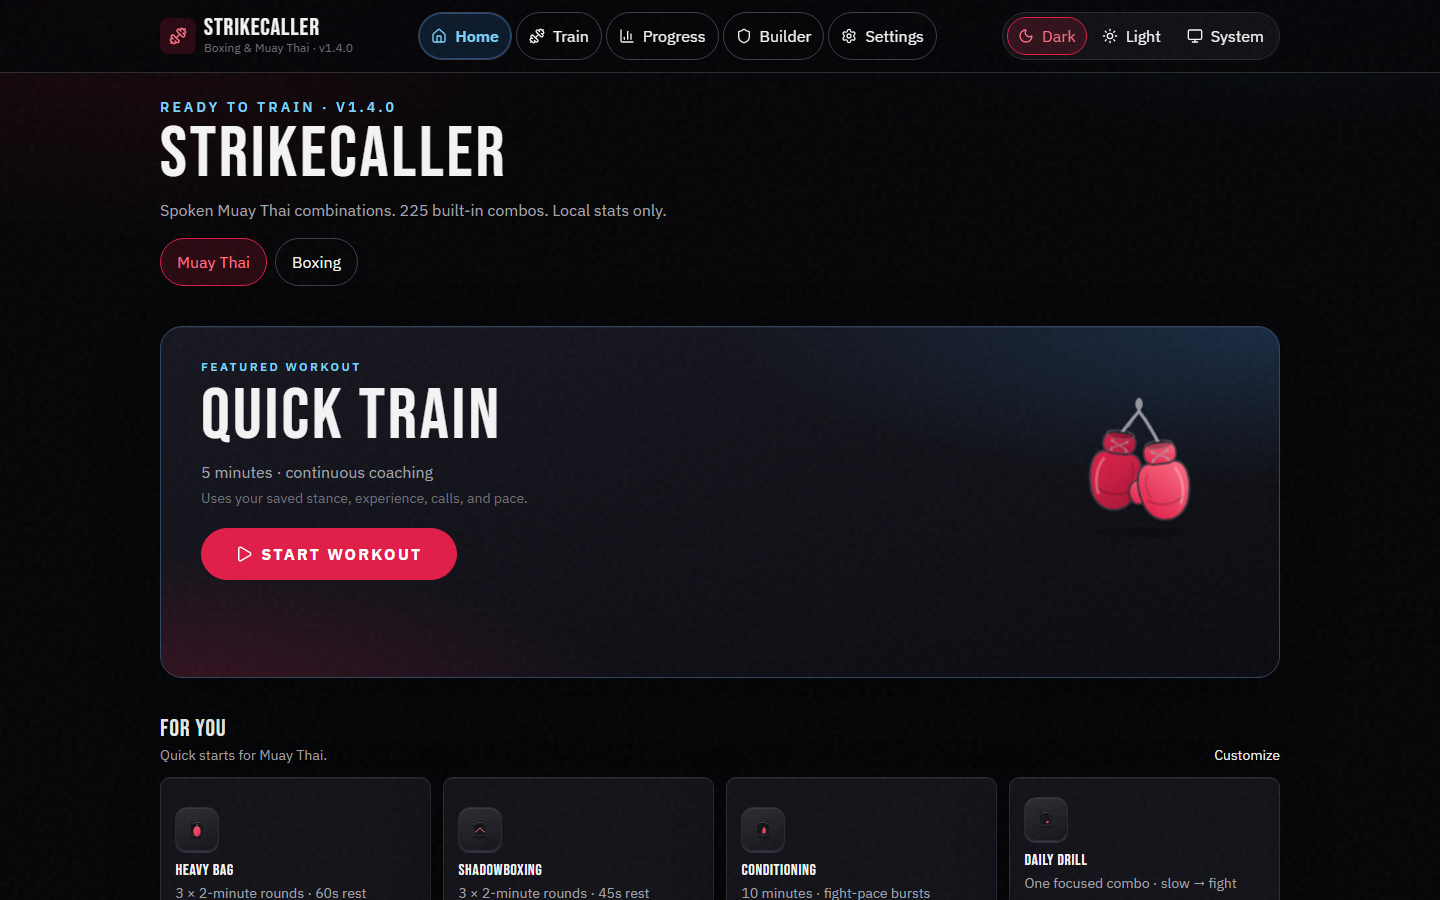
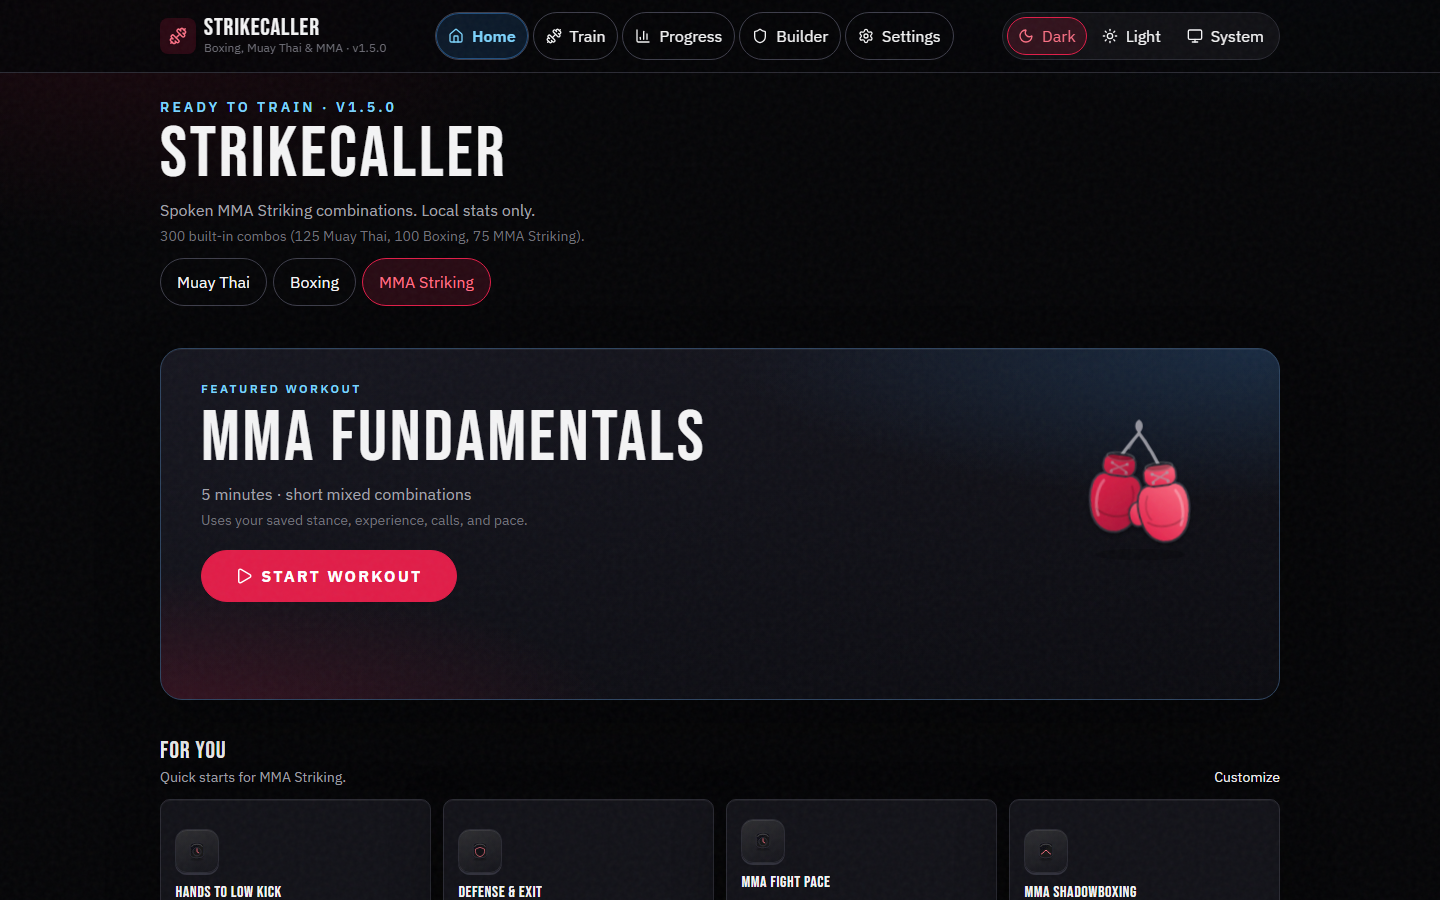
fix: make MMA kick exits mandatory and correct v1.5 review copy
Stop post-kick generation from falling through to attacking follow-ups, and keep README/release links aligned with 1.5.0.

diff --git a/src/test/mmaStriking.v15.test.tsx b/src/test/mmaStriking.v15.test.tsx
@@ -1,12 +1,12 @@
-import { describe, expect, it, beforeEach } from 'vitest'
+import { describe, expect, it, beforeEach, afterEach } from 'vitest'
 import { render, screen } from '@testing-library/react'
 import { MemoryRouter } from 'react-router-dom'
 import { AppProvider } from '../context/AppContext'
 import { HomePage } from '../pages/HomePage'
 import { CURATED_COMBOS } from '../data/combos'
 import { MMA_STRIKING_COMBOS, MMA_BEGINNER, MMA_INTERMEDIATE } from '../data/mma-striking'
-import { getTechniquesForSport, lookupTechnique } from '../data/techniques'
-import { generateRuleBasedCombo, getDemoCombos, nextCombo } from '../engines/comboGenerator'
+import { getTechnique, getTechniquesForSport, lookupTechnique } from '../data/techniques'
+import { generateRuleBasedCombo, getDemoCombos, isMmaKickExit, nextCombo } from '../engines/comboGenerator'
 import type { GeneratorOptions } from '../engines/comboGenerator'
 import { validateTechniqueSequence } from '../engines/comboValidator'
 import { validateRuntimeComboSemantics, validateTechniqueIdsForArt } from '../utils/comboSemantics'
@@ -59,6 +59,25 @@ describe('MMA Striking curated library', () => {
       const semantic = validateRuntimeComboSemantics(combo, 'mma-striking')
       expect(semantic.ok, `${combo.id}: ${semantic.ok ? '' : semantic.message}`).toBe(true)
       expect(validateTechniqueIdsForArt(ids, 'mma-striking').ok).toBe(true)
+    }
+  })
+
+  it('keeps mma-d01 title, techniques, and setup in agreement', () => {
+    const combo = MMA_STRIKING_COMBOS.find((c) => c.id === 'mma-d01')
+    expect(combo).toBeTruthy()
+    expect(combo!.title).toBe('Parry jab')
+    expect(combo!.techniques.map((t) => t.techniqueId)).toEqual(['parry', 'jab'])
+    expect(combo!.setupExplanation.toLowerCase()).toContain('parry')
+    expect(combo!.setupExplanation.toLowerCase()).toContain('jab')
+    expect(combo!.setupExplanation.toLowerCase()).not.toContain('cross')
+  })
+
+  it('keeps MMA-exposed coaching cues free of takedown teaching', () => {
+    for (const technique of getTechniquesForSport('mma-striking')) {
+      expect(technique.coachingCue, technique.id).not.toMatch(/\bdump\b/i)
+      expect(technique.coachingCue, technique.id).not.toMatch(/\btakedown\b/i)
+      expect(technique.coachingCue, technique.id).not.toMatch(/\bwrestl/i)
+      expect(technique.coachingCue, technique.id).not.toMatch(/\bsubmission\b/i)
     }
   })
 
@@ -119,6 +138,92 @@ describe('MMA Striking generator', () => {
     const combo = nextCombo({ ...options, preferCurated: true, seed: 2 })
     const ids = combo?.techniques.map((t) => t.techniqueId) ?? []
     expect(ids.some((id) => id.includes('head-kick'))).toBe(false)
+  })
+
+  it('requires an MMA kick/teep follow-up to be movement, defense, jab, or reset-stance', () => {
+    for (let i = 0; i < 40; i++) {
+      const combo = generateRuleBasedCombo(
+        { ...options, comboLength: { min: 3, max: 5 }, seed: i * 19 },
+        () => ((i * 17 + 3) % 100) / 100,
+      )
+      expect(combo, `seed ${i}`).not.toBeNull()
+      const ids = combo!.techniques.map((t) => t.techniqueId)
+      for (let step = 0; step < ids.length - 1; step++) {
+        const current = lookupTechnique(ids[step]!)!
+        if (current.category !== 'kick' && current.category !== 'teep') continue
+        const next = lookupTechnique(ids[step + 1]!)!
+        expect(isMmaKickExit(next), `${ids.join(' → ')} after ${current.id}`).toBe(true)
+      }
+    }
+  })
+})
+
+describe('MMA post-kick exit invariant', () => {
+  const jab = getTechnique('jab')
+  const kick = getTechnique('rear-low-kick')
+  const originalJabFollowUps = [...jab.recommendedFollowUps]
+  const originalKickFollowUps = [...kick.recommendedFollowUps]
+  const originalKickIncompatible = [...kick.incompatibleFollowUps]
+
+  afterEach(() => {
+    jab.recommendedFollowUps = originalJabFollowUps
+    kick.recommendedFollowUps = originalKickFollowUps
+    kick.incompatibleFollowUps = originalKickIncompatible
+  })
+
+  const forceKickOptions: GeneratorOptions = {
+    martialArt: 'mma-striking',
+    difficulty: 'beginner',
+    stance: 'orthodox',
+    mode: 'coach',
+    equipment: 'shadowboxing',
+    categories: ['punch', 'kick', 'teep', 'defense', 'movement'],
+    defenseFrequency: 0.35,
+    movementFrequency: 0.5,
+    repetitionFrequency: 0,
+    comboLength: { min: 3, max: 3 },
+    includeHeadKicks: false,
+    includeElbows: false,
+    includeKnees: false,
+    includeClinch: false,
+    preferCurated: false,
+  }
+
+  it('still exits after a kick whose recommended follow-ups are only attacks', () => {
+    jab.recommendedFollowUps = ['rear-low-kick']
+    kick.recommendedFollowUps = ['cross', 'lead-hook']
+    const combo = generateRuleBasedCombo(forceKickOptions, () => 0)
+    expect(combo).not.toBeNull()
+    const ids = combo!.techniques.map((t) => t.techniqueId)
+    expect(ids[0]).toBe('jab')
+    expect(ids[1]).toBe('rear-low-kick')
+    expect(ids.length).toBeGreaterThan(2)
+    const exit = lookupTechnique(ids[2]!)!
+    expect(isMmaKickExit(exit)).toBe(true)
+    expect(['cross', 'lead-hook']).not.toContain(exit.id)
+  })
+
+  it('ends the combo at the kick when no compatible exit exists', () => {
+    jab.recommendedFollowUps = ['rear-low-kick']
+    kick.recommendedFollowUps = ['cross', 'lead-hook']
+    kick.incompatibleFollowUps = [
+      ...originalKickIncompatible,
+      'jab',
+      'reset-stance',
+      'step-back',
+      'pivot-left',
+      'angle-out-left',
+      'high-guard',
+      'parry',
+      'slip-left',
+      'pull-back',
+    ]
+    const combo = generateRuleBasedCombo(
+      { ...forceKickOptions, defenseFrequency: 0, movementFrequency: 0 },
+      () => 0,
+    )
+    expect(combo).not.toBeNull()
+    expect(combo!.techniques.map((t) => t.techniqueId)).toEqual(['jab', 'rear-low-kick'])
   })
 })
 

diff --git a/src/engines/comboGenerator.ts b/src/engines/comboGenerator.ts
@@ -95,6 +95,24 @@ function isCommittedKick(technique: Technique): boolean {
   return technique.category === 'kick' || technique.category === 'teep'
 }
 
+/** Stable MMA recovery after a committed kick/teep — not another attack. */
+export function isMmaKickExit(technique: Technique): boolean {
+  return (
+    technique.category === 'movement' ||
+    technique.category === 'defense' ||
+    technique.id === 'jab' ||
+    technique.id === 'reset-stance'
+  )
+}
+
+function mmaExitsAfterKick(last: Technique, allowed: Technique[], sequence: string[]): Technique[] {
+  return allowed.filter((t) => {
+    if (last.incompatibleFollowUps.includes(t.id)) return false
+    if (!isMmaKickExit(t)) return false
+    return validateTechniqueSequence([...sequence, t.id]).valid
+  })
+}
+
 export function generateRuleBasedCombo(options: GeneratorOptions, rand = Math.random): Combo | null {
   const mma = options.martialArt === 'mma-striking'
   const maxLen = mma ? Math.min(options.comboLength.max, 5) : options.comboLength.max
@@ -125,6 +143,16 @@ export function generateRuleBasedCombo(options: GeneratorOptions, rand = Math.ra
   while (sequence.length < length) {
     const last = getTechnique(sequence[sequence.length - 1]!)
     const usedKick = sequence.some((id) => isCommittedKick(getTechnique(id)))
+
+    if (mma && isCommittedKick(last)) {
+      const exits = mmaExitsAfterKick(last, allowed, sequence)
+      if (!exits.length) break
+      const exit = pick(exits, rand)
+      if (!exit) break
+      sequence.push(exit.id)
+      continue
+    }
+
     let candidates = allowed.filter((t) => {
       if (last.incompatibleFollowUps.includes(t.id)) return false
       if (mma && usedKick && isCommittedKick(t)) return false
@@ -134,13 +162,7 @@ export function generateRuleBasedCombo(options: GeneratorOptions, rand = Math.ra
       return last.recommendedFollowUps.length === 0
     })
 
-    if (mma && isCommittedKick(last)) {
-      // MMA kicks need a stable exit before another committed attack.
-      const exits = candidates.filter(
-        (t) => t.category === 'movement' || t.category === 'defense' || t.id === 'jab' || t.id === 'reset-stance',
-      )
-      if (exits.length) candidates = exits
-    } else if (rand() < options.defenseFrequency) {
+    if (rand() < options.defenseFrequency) {
       const defense = candidates.filter((t) => t.category === 'defense' || t.category === 'counter')
       if (defense.length) candidates = defense
     } else if (options.movementFrequency > 0 && rand() < options.movementFrequency && sequence.length >= length - 1) {

diff --git a/src/data/techniques.ts b/src/data/techniques.ts
@@ -992,7 +992,7 @@ const TECHNIQUES_RAW: Technique[] = [
     recommendedFollowUps: ['cross', 'rear-low-kick', 'lead-hook'],
     incompatibleFollowUps: [],
     tags: ['defense', 'teep'],
-    coachingCue: 'Catch the foot, dump or step offline, then counter.',
+    coachingCue: 'Catch the foot, step offline, then counter.',
     weightCommit: 'medium',
     martialArts: STRIKE,
     leavesGuardOpen: false,
@@ -1370,7 +1370,7 @@ const TECHNIQUES_RAW: Technique[] = [
     recommendedFollowUps: ['rear-low-kick', 'reset-stance', 'angle-out-left'],
     incompatibleFollowUps: [],
     tags: ['counter', 'teep'],
-    coachingCue: 'Catch, dump or step in, then punish with the cross or kick.',
+    coachingCue: 'Catch the foot, step offline, then counter with the cross or kick.',
     weightCommit: 'heavy',
     martialArts: STRIKE,
     leavesGuardOpen: true,

diff --git a/src/test/releaseVersion.test.ts b/src/test/releaseVersion.test.ts
@@ -26,6 +26,8 @@ describe('release version consistency', () => {
 
   it('keeps the README current release aligned with package version', () => {
     expect(readme).toContain(`Current release: **${pkg.version}**`)
+    expect(readme).toContain(`https://github.com/ManpreetS2/StrikeCaller/releases/tag/v${pkg.version}`)
+    expect(readme).not.toContain('releases/tag/v1.4.0')
   })
 
   it('keeps the production document title free of version numbers', () => {

diff --git a/src/data/mma-striking/mma_defensive.ts b/src/data/mma-striking/mma_defensive.ts
@@ -8,7 +8,7 @@ export const MMA_DEFENSIVE: Combo[] = [
     difficulty: 'beginner',
     purpose: 'defend-and-return',
     techniques: ['parry', 'jab'],
-    setup: 'Catch the jab line and return the cross.',
+    setup: 'Parry the jab line and return the jab.',
     tags: ['defense'],
   }),
   mma({

diff --git a/README.md b/README.md
@@ -7,7 +7,7 @@ StrikeCaller is a complete local-first spoken combo coach for **Boxing**, **Muay
 Current release: **1.5.0**. See [CHANGELOG.md](./CHANGELOG.md) for what’s new.
 
 <p align="center">
-  <img src="./docs/screenshots/01-home-desktop.png" alt="StrikeCaller home: featured workout with Start workout, Boxing and Muay Thai toggle, For You quick starts, and local weekly progress" width="900">
+  <img src="./docs/screenshots/01-home-desktop.png" alt="StrikeCaller home: featured workout with Start workout, Muay Thai, Boxing, and MMA Striking sport selector, For You quick starts, and local weekly progress" width="900">
 </p>
 
 <p align="center">
@@ -18,11 +18,11 @@ Current release: **1.5.0**. See [CHANGELOG.md](./CHANGELOG.md) for what’s new.
 |---|---|
 | **Live** | [GitHub Pages](https://manpreets2.github.io/StrikeCaller/) |
 | **Stack** | React · TypeScript · Vite |
-| **Quality** | 739 Vitest / 48 files · 86 Playwright passed · 36 skipped · 0 failed |
+| **Quality** | 744 Vitest / 48 files · 86 Playwright passed · 36 skipped · 0 failed |
 | **Browsers** | Chromium · Firefox · WebKit · Mobile WebKit |
 | **Storage** | IndexedDB + localStorage |
 | **Privacy** | No account · No backend · Privacy-first anonymous site analytics · No cloud sync |
-| **Release** | [v1.4.0](https://github.com/ManpreetS2/StrikeCaller/releases/tag/v1.4.0) |
+| **Release** | [v1.5.0](https://github.com/ManpreetS2/StrikeCaller/releases/tag/v1.5.0) |
 
 **300** curated combinations (**125** Muay Thai, **100** Boxing, **75** MMA Striking). Free. No account.
 
@@ -132,7 +132,7 @@ Pull requests run verify, e2e, and Pages build. Deploy and live verification run
 
 v1.5.0 quality gate:
 
-- **739** Vitest tests across **48** files
+- **744** Vitest tests across **48** files
 - **86** Playwright tests passed, **36** skipped, **0** failed
 - Chromium, Firefox, WebKit, and mobile WebKit
 - lint, typecheck, unit/integration tests, Pages artifact verification, and E2E
